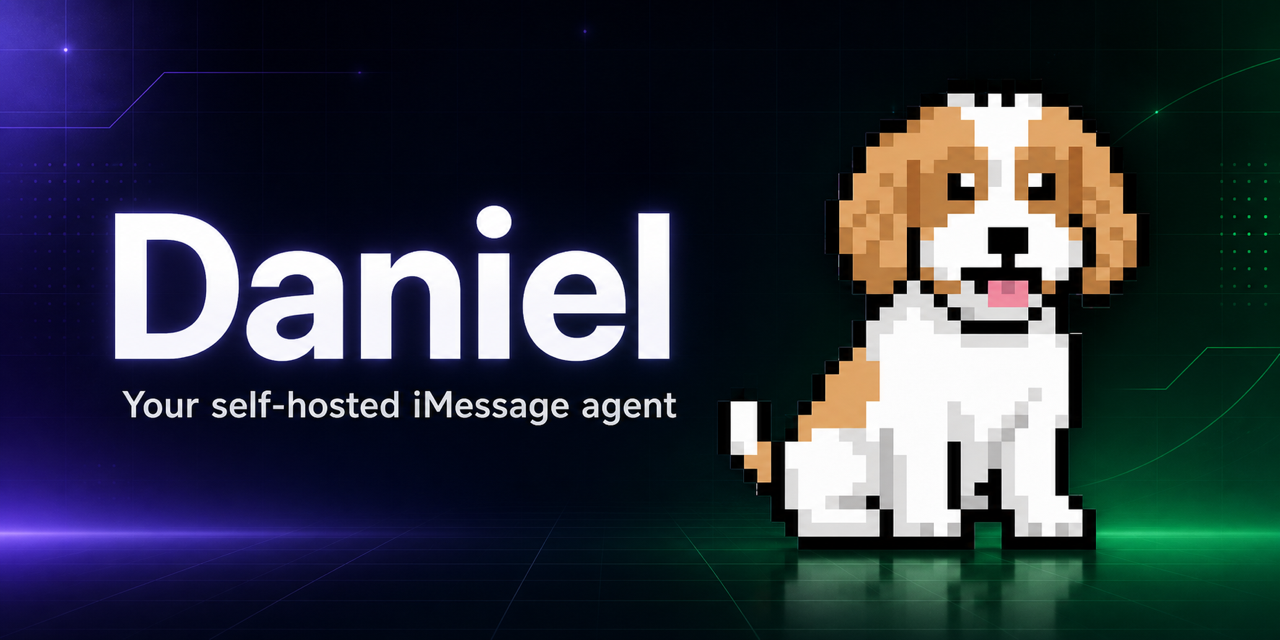
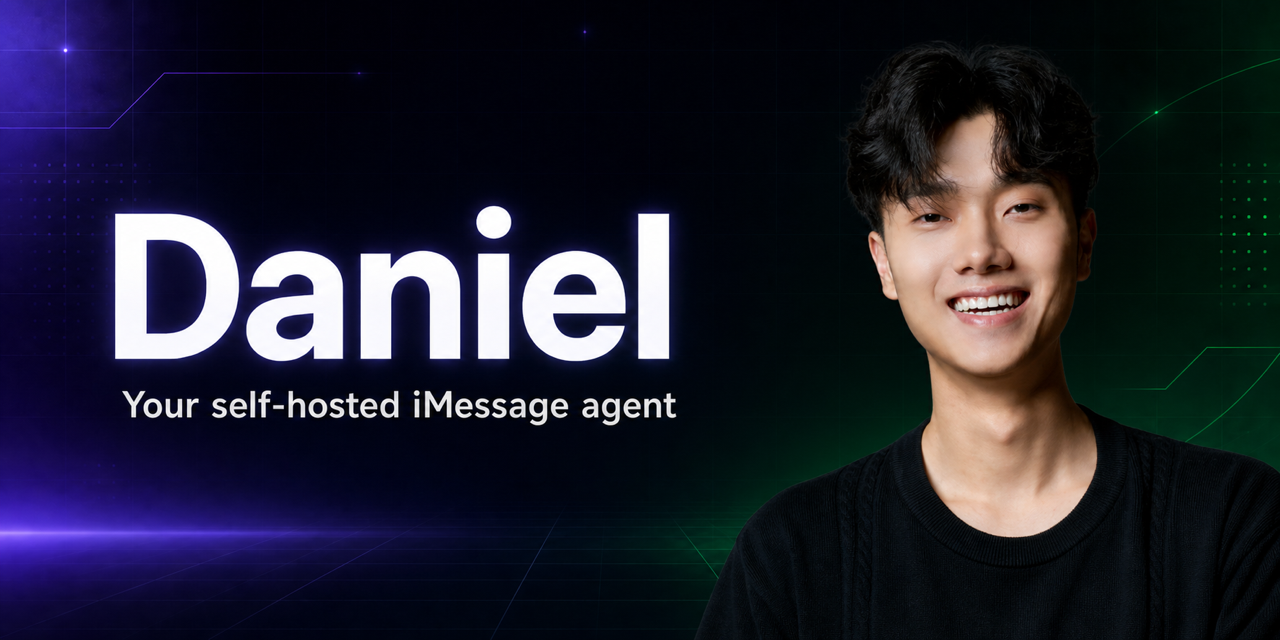
Replace dog branding with Daniel portrait (#2)
## What changed

- Replaced the dog image used by the README and dashboard favicon with
the supplied Daniel portrait.
- Rebuilt the 1280×640 social preview with the portrait while preserving
the existing Daniel title, tagline, and neon layout.
- Removed the obsolete animated dog asset.

## Why

Daniel’s public-facing visual identity should use the supplied portrait
instead of the dog mascot.

## Validation

- `npm run validate`
- Branding guard passed
- Typecheck passed
- 12 test files / 70 tests passed
- Production dashboard build passed
- Confirmed no remaining dog, puppy, mascot, or `daniel.gif` references
in current product-facing assets and docs

diff --git a/README.md b/README.md
@@ -1,5 +1,5 @@
 <p align="center">
-  <img src="assets/daniel.gif" alt="Daniel mascot" width="220" />
+  <img src="assets/daniel.png" alt="Daniel portrait" width="220" />
 </p>
 
 # Daniel
